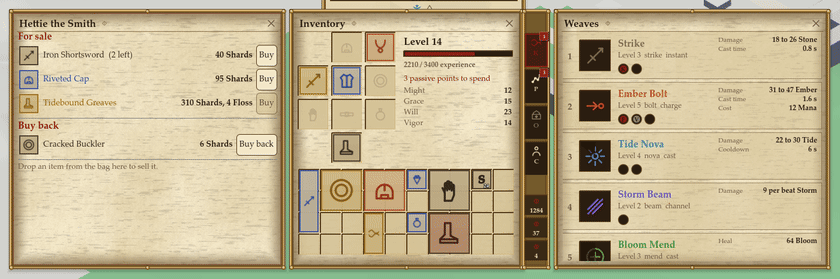
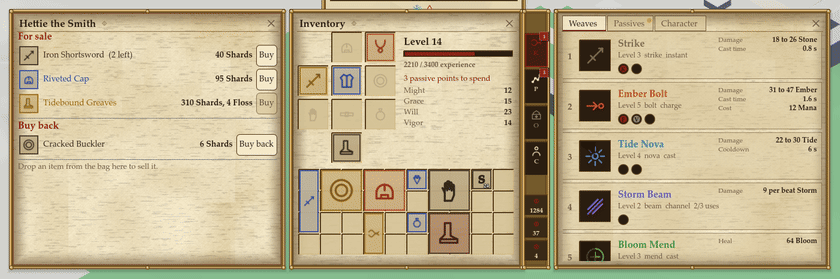
Docs: the browser interface, shapes and telegraphs; refreshed mockups
- web-client.md: the interface's modules, input from input_actions
  with rebinds and controllers, the default keys, Options and settings
  per profile in local storage with the link parameters, delivery
  shapes and telegraphs, config.json without bindings, the smoke's new
  steps.
- client.md: shapes, telegraphs and picking bodies as drawn.
- ui.md: the browser client draws every surface, Options included.
- The mockups are rendered again with the cast bar's overcharge stages
  and the status frames.

diff --git a/docs/design/web-client.md b/docs/design/web-client.md
@@ -4,7 +4,7 @@ The browser client is presentation, like the desktop client. It never resolves g
 
 ## Shape
 
-`src/app.ts` is the root, the twin of the desktop `Main`: it owns the connection, the terrain and entity views, the camera rig and the UI, handles messages and turns input into intents. `net/` holds the generated message types, the codec and the socket; `world/` the chunk store, terrain colours and meshes, entity bodies and snapshot interpolation; `view/camera.ts` both camera modes; `input/input.ts` the key and mouse bindings; `ui/` the login panel, the HUD and server address handling. `world/coords.ts` is the only place that converts coordinates: the simulation is X east, Y north, Z up, three.js is X east, Y up, Z south, so a simulation point (x, y, z) is drawn at (x, z, -y).
+`src/app.ts` is the root, the twin of the desktop `Main`: it owns the connection, the terrain and entity views, the camera rig, the interface and the player's settings, handles messages and turns input into intents. `net/` holds the generated message types, the codec and the socket; `world/` the chunk store, terrain colours and meshes, entity bodies, delivery shapes and snapshot interpolation; `view/camera.ts` both camera modes; `input/input.ts` the keys, mouse and controller; `ui/` the interface of [ui.md](ui.md) and the login panel. In `ui/`, `hud.ts` orchestrates as the desktop's `Hud` does; `cluster.ts`, `overlay.ts`, `core.ts`, `bookView.ts`, `board.ts` and `items.ts` draw the cluster, the plate, notices and chat, the core pane, books, boards and item cards; `pages/` holds the development pages and `panes/` the world panes and Options; `ui/logic/` holds the interface's logic as plain modules with tests, the same as the desktop's `UI/Logic` (content reading, the book rule, the workspace, placement, the menu fold, the hero's states, options and settings). `world/coords.ts` is the only place that converts coordinates: the simulation is X east, Y north, Z up, three.js is X east, Y up, Z south, so a simulation point (x, y, z) is drawn at (x, z, -y).
 
 ## Connecting
 
@@ -20,7 +20,7 @@ Meshes are a port of the desktop `TerrainMesh`: one quad per cell, corner height
 
 ## Entities
 
-Bodies are chosen by what an entity is, by the same rules as the desktop `EntityView`: capsules for creatures, a trunk and canopy for trees, boxes for other props and structures, spheres for projectiles, cylinders for drops, fields, markers and founts. Colours come from config.json by player, drop rarity, kind, flora and faction, then rarity. A label in screen space carries the name, the level for creatures, a dead mark, cast progress and statuses, and a life bar. The mouse picks against the drawn bodies rather than the simulation radius (a marker's radius covers its whole place). Creatures and interactables win over plain props under the cursor, so a canopy in front of a hob does not take the hover from it, and among overlapping bodies the one the cursor is nearest the middle of wins, so a quest giver beside a marker is the one you get when you point at the quest giver.
+Bodies are chosen by what an entity is, by the same rules as the desktop `EntityView`: capsules for creatures, a trunk and canopy for trees, boxes for other props and structures, spheres for projectiles, cylinders for drops, fields, markers and founts. A projectile, area, field or tether the server names a shape for (`shape`, with `shape_size` in world units and radians, see [deliveries.md](deliveries.md)) is drawn as that shape (`world/shapes.ts`): a slab for a projectile, a flat mark for the rest, facing its `heading` (else its yaw) and turned by its `spin`. A telegraph (look `telegraph`) is a ground mark at its radius or shape whose fill grows from the anchor to the whole mark as the server time nears its `until`; it fades in, breathes (still under reduce motion), and fades out when its time is up or it goes. Colours come from config.json by player, drop rarity, kind, flora and faction, then rarity. A label in screen space carries the name, the level for creatures, a dead mark, cast progress and statuses, and a life bar. The mouse picks against the drawn bodies rather than the simulation radius (a marker's radius covers its whole place). Creatures and interactables win over plain props under the cursor, so a canopy in front of a hob does not take the hover from it, and among overlapping bodies the one the cursor is nearest the middle of wins, so a quest giver beside a marker is the one you get when you point at the quest giver.
 
 An `entity_spawn` for a known key replaces its state; static entities (flora, props, markers, founts, drops) arrive once with `static` set and are never updated, and an `entity_update` lists only the entities that changed, so one it does not list keeps the state it had. The hello asks for the features in `server.features` (`entity_delta` by default), and with it granted, changes arrive as `entity_delta` messages applied to the known state exactly as `EntityDelta.ApplyTo` does on the desktop (`net/delta.ts`); a delta for an unknown entity is ignored until the next refresh. A `?full-states` link asks for no features, for comparison.
 
@@ -28,34 +28,38 @@ Other entities are drawn a little in the past at the server's time, blended betw
 
 ## Camera
 
-The same two modes as the desktop `CameraRig`. Isometric: orthographic, fixed pitch, yaw in steps with `Q` and `E`, follows the player, scroll to zoom. Third person: perspective behind the character, orbit with the right mouse button, scroll for distance, `Q` and `E` in smaller steps. `V` toggles.
+The same two modes as the desktop `CameraRig`. Isometric: orthographic, fixed pitch, yaw in steps with `Q` and `E`, follows the player, scroll to zoom. Third person: perspective behind the character, orbit with the right mouse button, scroll for distance, `Q` and `E` in smaller steps. `V` toggles. The starting mode, the isometric step and zoom range, and the third-person sensitivity, inversion and field of view are Options.
 
 ## Input
 
-Input becomes the same intents the desktop client sends. Bindings are `KeyboardEvent.code` values in config.json.
+Input becomes the same intents the desktop client sends. Every binding is an `input_actions` entry from the bundled content, with the player's rebinds from Options laid over it, matched to `KeyboardEvent.code` with its modifiers; held actions (movement) ignore modifiers. A connected controller is read through the Gamepad API (standard layout) by the same action names. The defaults:
 
 | Input | Intent |
 |---|---|
-| `W` `A` `S` `D` held | `move_dir` relative to the camera's ground forward, `stop` on release; sent only when the direction changes |
-| Left click | `interact` (or `pick_up` for a drop) on an entity under the cursor, otherwise `move_to` the ground point under it |
+| `W` `A` `S` `D` (or the arrows) held | `move_dir` relative to the camera's ground forward, `stop` on release; sent only when the direction changes |
+| Left click | `interact` (or `pick_up` for a drop) on an entity under the cursor, otherwise `move_to` the ground point under it (unless click to move is off) |
 | `1` to `8` | `use_weave` on that slot, target the hovered entity, aimed at the ground under the cursor |
 | `Space` | `jump` |
 | `F` | `interact` with the nearest interactable within reach |
 | `G` | `pick_up` the nearest drop within reach |
 | `R` | `respawn` |
-| `Escape` | `cancel_cast`, and closes the quest panel |
+| `I`, `K`, `P`, `O`, `H`, `C`, `F10` | the inventory (the core pane), weaves, passives, reliquary, stash, character and Options pages; a second press closes the core pane |
+| `Tab`, `Shift+Tab` | the menu tray, or the walk through a book of two or more tabs while one stands |
+| `Escape` | drops a carried item, folds the tray, lets the front pane use it, closes the front pane and the core pane last; with nothing open it sends `cancel_cast` while a cast runs and opens Options otherwise |
 | `Enter` | focuses chat; `Enter` again sends `chat` to the zone |
-| `C`, `V`, `Q`, `E`, wheel | the sheet and the camera, nothing sent |
+| `V`, `Q`, `E`, wheel | the camera, nothing sent |
 
-Keys typed into a text field never reach the game, and when the page loses focus held movement stops.
+Keys typed into a text field never reach the game, a key capture in Options takes the next press before anything else sees it, and when the page loses focus held movement stops.
 
 ## UI
 
-Placeholder, as on the desktop: resource bars, a weave bar with cooldowns and costs, a target line for the hovered entity, notices, a chat and combat log, a character sheet (attributes, resistances, gear, bag, currency, quests) and a quest offer panel with accept and turn-in buttons. Every string from the server goes into the page as text, never as markup.
+The interface is [ui.md](ui.md)'s, drawn from the same theme content and the same messages as the desktop client, so a player sees one interface on either: the cluster with its orbs drawn on canvases, the weave bar, the cast bar, statuses and the menu tray; the target plate, notices, combat text and the chat; the core pane with its doll, bag, rail and wallet; the pages and the world panes bound into books by the book rule; item cards, carrying and quick actions; and Options. The hello asks for the `interface` feature along with the snapshot features; without it the interface falls back to the plain self state. Every string from the server goes into the page as text, never as markup. The login panel wears the theme too and opens Options.
+
+The player's settings are the Options content (`ui_options`) kept per profile in this browser's local storage (`hollowwake.settings.<profile>`), written on every change and read at start with the content's defaults for anything missing or malformed. Link parameters: `?profile=NAME` picks a profile, `?fresh-settings` starts it from the defaults, `?theme=ID` picks a theme, `?developer` shows the Developer page. The core pane's remembered seat is kept the same way.
 
 ## Configuration
 
-`web/public/config.json` is the one source of client settings: it is compiled in as the defaults and fetched again beside the page at startup, so an operator can retune a deployed client by editing `dist/config.json` without rebuilding. Sections: `server` (default address, socket path, whether to look for a server at the page's origin, hello features), `world` (view radius, requests in flight, timeouts, meshes built per frame, ping interval), `camera`, `motion` (interpolation delay, extrapolation cap, own-body smoothing), `input` (bindings, interaction reach), `render` (pixel ratio, antialiasing, shadows, sky, fog, sun and ambient light), `terrain` (the colour rules above), `entities` (body and label colours) and `ui`. A field left out of the runtime file keeps its default.
+`web/public/config.json` is the one source of operator settings: it is compiled in as the defaults and fetched again beside the page at startup, so an operator can retune a deployed client by editing `dist/config.json` without rebuilding. Sections: `server` (default address, socket path, whether to look for a server at the page's origin, hello features), `world` (view radius, requests in flight, timeouts, meshes built per frame, ping interval), `camera`, `motion` (interpolation delay, extrapolation cap, own-body smoothing), `input` (interaction reach), `render` (pixel ratio, antialiasing, shadows, sky, fog, sun and ambient light), `terrain` (the colour rules above) and `entities` (body, telegraph and label colours). A field left out of the runtime file keeps its default. The player's own preferences (draw distance, shadows, haze, the pixel ratio cap, the cameras, keys) are Options over these defaults; key bindings and the look are content, not configuration.
 
 ## The protocol module
 
@@ -67,8 +71,8 @@ Placeholder, as on the desktop: resource bars, a weave bar with cooldowns and co
 
 ## Running and checking
 
-`npm --prefix web run smoke -- --url http://localhost:7778/ --shots <dir>` drives the client in an installed Edge or Chrome through playwright-core against a running server: it logs in, creates or picks a character called Smoke, enters the world, waits for the terrain, then checks held movement, jumping, click-to-move, the quartermaster's quest offer, both cameras, the sheet, chat and weaves on the nearest hob through real keyboard and mouse input, saving a screenshot at each stage. Every check prints a `SMOKE PASS` or `SMOKE FAIL` line and the process exits non-zero when any check fails. The page exposes read-only state for it as `window.hollowWake`.
+`npm --prefix web run smoke -- --url http://localhost:7778/ --shots <dir>` drives the client in an installed Edge or Chrome through playwright-core against a running server: it logs in, creates or picks a character called Smoke, enters the world, waits for the terrain, then checks held movement, jumping, click-to-move, the quartermaster's quest offer, both cameras, the character page, chat, the core pane and every ribbon page, a villager's conversation, the quartermaster's trade, Options (switching the theme, rebinding a key and using it, scaling the interface, resetting a group) and weaves on the nearest hob through real keyboard and mouse input, saving a screenshot at each stage. It runs under its own settings profile, started from the defaults each run. Every check prints a `SMOKE PASS` or `SMOKE FAIL` line and the process exits non-zero when any check fails. The page exposes read-only state for it as `window.hollowWake`.
 
 ## Still rough
 
-Placeholder on purpose, and worth knowing before judging a screenshot: labels of things behind the HUD show through it; trees and walls hide the player from the isometric camera; `F` takes the nearest interactable, so a villager standing between you and the quartermaster answers first (click the quartermaster instead); the browser downloads every chunk it shows, tens of kilobytes each; the server speaks plain HTTP and WebSocket, so TLS comes from whatever is in front of it (the Codespaces forwarder, a reverse proxy); on Windows the server listens on this machine only unless a URL ACL allows the wildcard prefix.
+Placeholder on purpose, and worth knowing before judging a screenshot: entity labels draw over every body, so a crowded hamlet reads as a pile of names; trees and walls hide the player from the isometric camera; `F` takes the nearest interactable, so a villager standing between you and the quartermaster answers first (click the quartermaster instead); the browser downloads every chunk it shows, tens of kilobytes each; the server speaks plain HTTP and WebSocket, so TLS comes from whatever is in front of it (the Codespaces forwarder, a reverse proxy); on Windows the server listens on this machine only unless a URL ACL allows the wildcard prefix.

diff --git a/docs/design/client.md b/docs/design/client.md
@@ -8,7 +8,7 @@ On `enter_world` the client builds a `WorldGenerator` from the seed, layout and 
 
 Terrain meshes are one quad per cell with vertex colors from biome and surface tags, smooth normals from the height field, vertical skirts wherever a flattened or structure cell steps against a neighbour, extra quads for layered surfaces and a translucent water plane. Godot takes clockwise triangles as front faces and the north axis flips under the coordinate conversion, so quads are emitted in reversed order with their normals on the lit side. Click rays are marched against the height field of built chunks only, so a click never generates terrain on the main thread.
 
-Entities are placeholder bodies chosen by what they are (capsules for creatures, a trunk and canopy for trees, boxes for other props and structures, spheres for projectiles, cylinders for drops, fields, markers and founts), colored by faction and rarity, with a fixed-size name label carrying level, cast progress and statuses, and a life bar on a camera-facing overlay above them. Positions interpolate between snapshots with velocity extrapolation.
+Entities are placeholder bodies chosen by what they are (capsules for creatures, a trunk and canopy for trees, boxes for other props and structures, spheres for projectiles, cylinders for drops, fields, markers and founts), colored by faction and rarity, with a fixed-size name label carrying level, cast progress and statuses, and a life bar on a camera-facing overlay above them. A projectile, area, field or tether the server names a shape for is drawn as that shape (`UI/Logic/ShapeOutline.cs`, `World/ShapeMesh.cs`): a slab for a projectile, a flat mark for the rest, facing its heading (else its yaw) and turned by its spin. A telegraph is a ground mark at its radius or shape whose fill grows to the whole mark as the server time nears its `until`, fading out when its time is up or it goes. The mouse picks the bodies as drawn: creatures and interactables over plain props, the body the ray passes nearest the middle of first, shapes and marks never. Positions interpolate between snapshots with velocity extrapolation.
 
 ## Camera
 

diff --git a/docs/design/ui.md b/docs/design/ui.md
@@ -94,7 +94,7 @@ Both draw the shield as a frosted glass veil over the life orb, the ward as a go
 
 ## The web client
 
-The browser client draws the same cluster, core pane, ribbon and world panes from the same theme content and the same messages, so a player sees one interface on either client. It lags the desktop client when a feature is new; a surface is done when both clients show it.
+The browser client draws the same cluster, core pane, ribbon, pages, world panes and Options from the same theme content and the same messages, so a player sees one interface on either client. Its layout logic is the same as the desktop's, kept as plain modules with tests beside the desktop's `UI/Logic` (see [web-client.md](web-client.md)). It lags the desktop client when a feature is new; a surface is done when both clients show it.
 
 ## What the client reads
 
